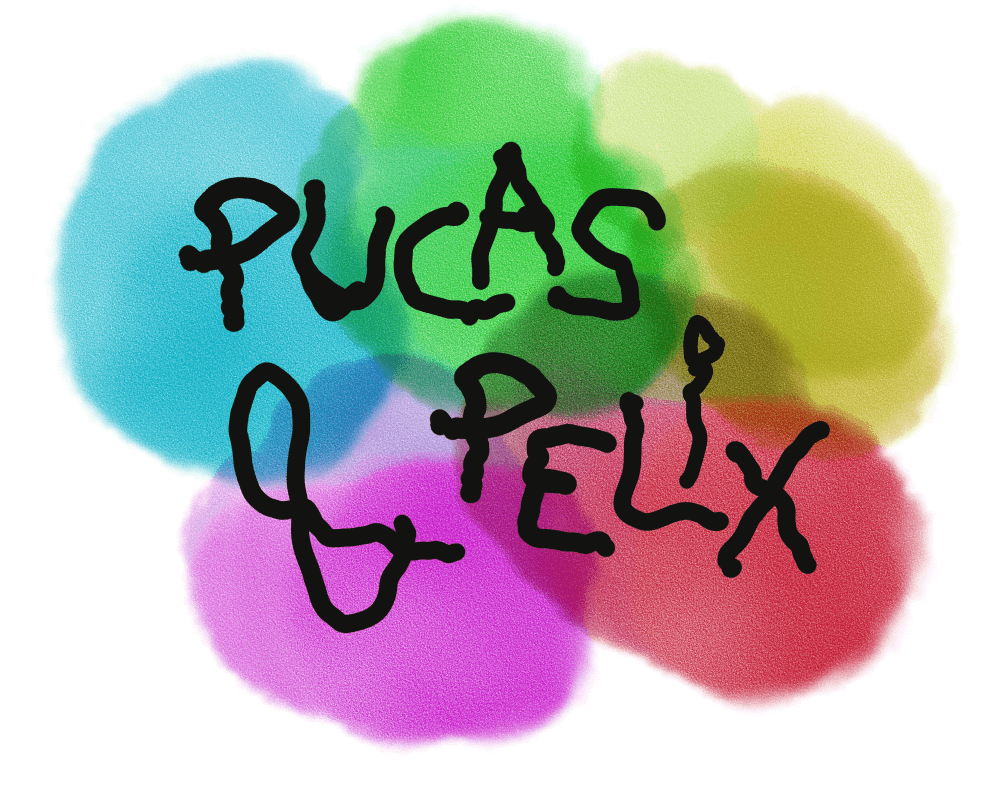
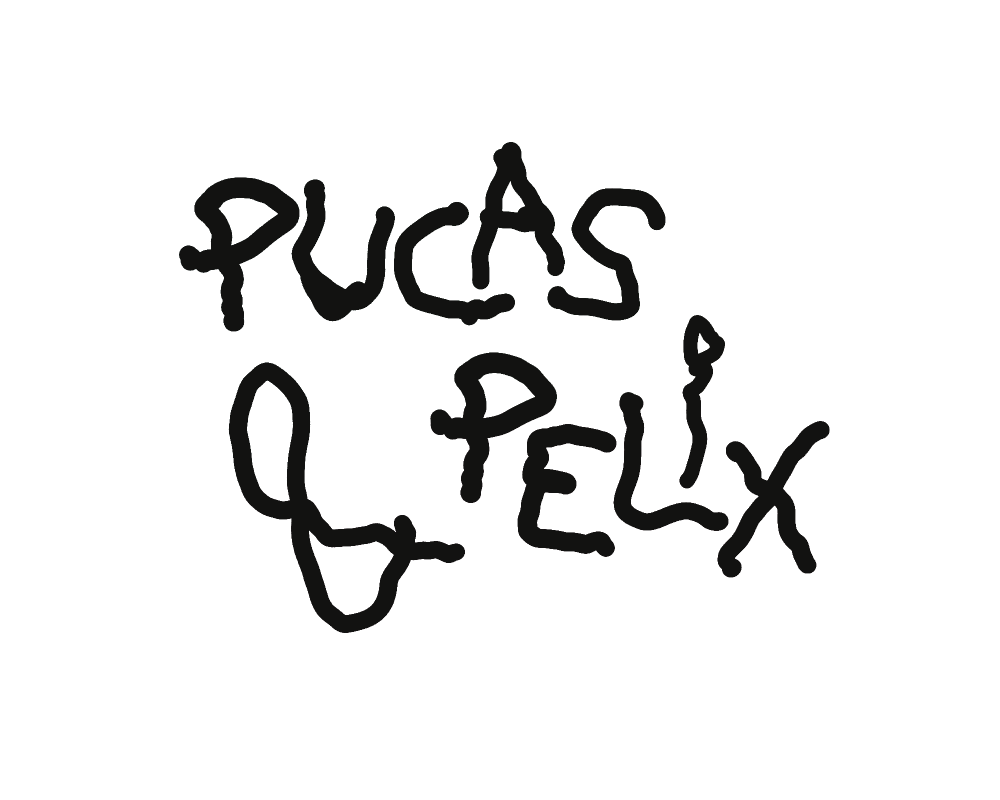
Styling

diff --git a/index.html b/index.html
@@ -144,6 +144,9 @@
                 position: absolute;
                 inset: 0;
                 background: rgba(255, 255, 255, 0.87);
+                background-image: url(/img/bg.webp);
+                background-position: center;
+                background-size: cover;
                 color: black;
                 display: flex;
                 align-items: center;
@@ -163,24 +166,32 @@
                 line-height: normal;
                 padding: 0 0.5em;
                 text-align: center;
+                position: relative;
             }
 
             .menu-title img {
+                position: relative;
                 width: 500px;
                 margin: 0 auto;
                 max-width: 100%;
                 height: auto;
+                mix-blend-mode: color-burn;
+            }
+            .menu-title img:nth-child(2) {
+                position: absolute;
+                inset: 0;
+                transform: translate(4px, 5px);
+                mix-blend-mode: color-burn;
+                filter: brightness(1.3) invert(0.17) saturate(2.6) sepia(0.25);
             }
 
             #play-button {
                 cursor: pointer;
                 transform-origin: center;
-                transform: scale(0.9);
+                transform: scale(0.95);
                 transition: transform 0.1s ease-in-out;
-                background: rgba(255, 255, 255, 0.87);
                 position: relative;
                 padding: 20px;
-                border-radius: 30px;
             }
             #play-button:hover {
                 transform: scale(1);
@@ -198,21 +209,39 @@
                 line-height: normal;
                 color: var(--dark-3);
                 position: relative;
-                background: rgba(255, 255, 255, 0.87);
+                background: rgba(255, 255, 255, 0.67);
+                border-radius: 2em 2em 0 0;
+            }
+            #ui-menu-chars {
+                position: absolute;
+                width: 100%;
+                max-width: 800px;
+                display: flex;
+                justify-content: space-between;
+                align-items: center;
+                pointer-events: none;
             }
             #pucas {
                 width: 175px;
                 height: auto;
-                position: absolute;
-                left: 2vw;
-                top: 40%;
             }
             #pelix {
                 width: 365px;
                 height: auto;
-                position: absolute;
-                right: -3vw;
-                top: 50%;
+                position: relative;
+                left: 120px;
+            }
+            @media (max-width: 750px) {
+                #pucas {
+                    width: 100px;
+                    height: auto;
+                }
+                #pelix {
+                    width: 165px;
+                    height: auto;
+                    position: relative;
+                    left: 20px;
+                }
             }
 
             #full-page-loading {
@@ -282,19 +311,23 @@
                 <div aria-roledescription="button" id="ui-menu-button"></div>
                 <div aria-roledescription="button" id="ui-sound"></div>
                 <div id="ui-menu">
-                    <img
-                        id="pucas"
-                        src="/img/pucas.png"
-                        title="Pucas"
-                        alt="Pucas"
-                    /><img
-                        id="pelix"
-                        src="/img/pelix.png"
-                        title="Pelix"
-                        alt="Pelix"
-                    />
+                    <div id="ui-menu-chars">
+                        <img
+                            id="pucas"
+                            src="/img/pucas.png"
+                            title="Pucas"
+                            alt="Pucas"
+                        /><img
+                            id="pelix"
+                            src="/img/pelix.png"
+                            title="Pelix"
+                            alt="Pelix"
+                        />
+                    </div>
+
                     <h1 class="menu-title">
                         <img src="/img/title.png" title="Pucas & Pelix" />
+                        <img src="/img/title.png" />
                     </h1>
                     <div id="play-button" aria-roledescription="button">
                         <img src="/img/play.png" title="Play" />
